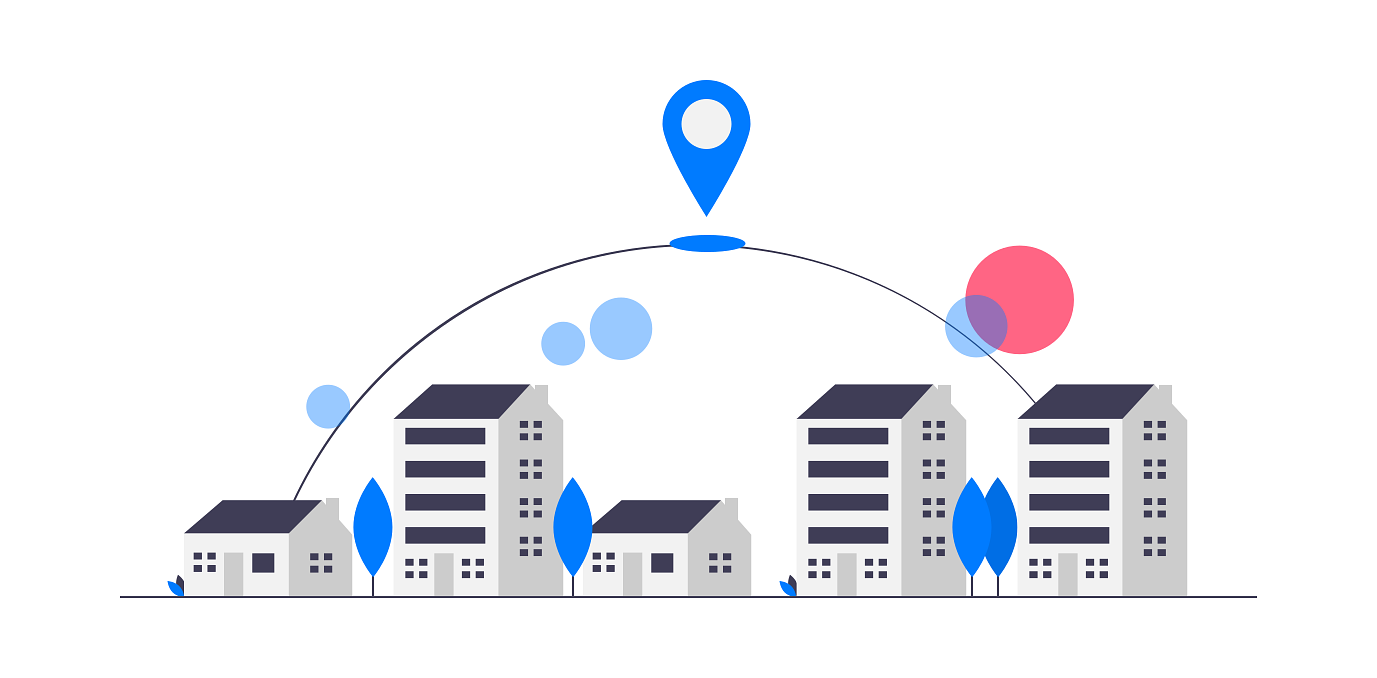
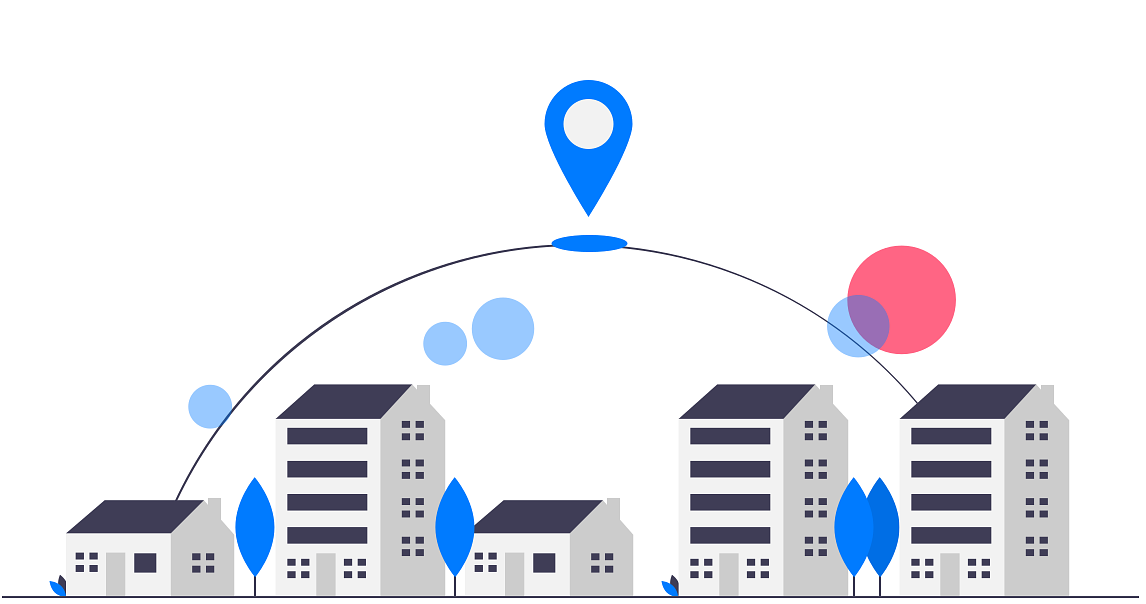
results - working. everything is prettier.

Changed region(s): [[0.0, 0.1192, 1.0, 1.0], [0.3054, 0.4768, 0.336, 0.5066]]

diff --git a/templates/result.html b/templates/result.html
@@ -1,42 +1,106 @@
 <!DOCTYPE html>
 <html lang="en">
 <head>
-    <title>My Webpage</title>
+    <title>Results | asteRisk*</title>
+    <script src="https://code.jquery.com/jquery-3.3.1.slim.min.js" integrity="sha384-q8i/X+965DzO0rT7abK41JStQIAqVgRVzpbzo5smXKp4YfRvH+8abtTE1Pi6jizo" crossorigin="anonymous"></script>
+    <script src="https://cdnjs.cloudflare.com/ajax/libs/popper.js/1.14.7/umd/popper.min.js" integrity="sha384-UO2eT0CpHqdSJQ6hJty5KVphtPhzWj9WO1clHTMGa3JDZwrnQq4sF86dIHNDz0W1" crossorigin="anonymous"></script>
     <link rel="stylesheet" href="https://stackpath.bootstrapcdn.com/bootstrap/4.3.1/css/bootstrap.min.css" integrity="sha384-ggOyR0iXCbMQv3Xipma34MD+dH/1fQ784/j6cY/iJTQUOhcWr7x9JvoRxT2MZw1T" crossorigin="anonymous">
+    <script src="https://stackpath.bootstrapcdn.com/bootstrap/4.3.1/js/bootstrap.min.js" integrity="sha384-JjSmVgyd0p3pXB1rRibZUAYoIIy6OrQ6VrjIEaFf/nJGzIxFDsf4x0xIM+B07jRM" crossorigin="anonymous"></script>
     <link rel='stylesheet' href='{{ url_for('static', filename='style.css') }}'>
+
+    <script>
+      $(document).ready(function(){
+        $('[data-toggle="popover"]').popover();
+      });
+    </script>
 </head>
 <body>
     <nav class="navbar navbar-expand-md navbar-dark fixed-top bg-dark justify-content-center">
-      <a class="navbar-brand" href="/">Real Estate Risk Assessment</a>
+      <a href="/">asteRisk*</a>
     </nav>
+
     <div id='result'>
       <h1>Result</h1>
-      <ul>
-        <li><strong>Address:</strong> {{address}}</li>
-        <li><strong>Price:</strong> {{price}}</li>
-        <li><strong>Type:</strong> {{type}}</li>
-        <li><strong>Rent or own:</strong> {{rented}}</li>
-        <li><strong>Description:</strong>
+      <a id='remax-link' href='{{posting}}' target="_blank">Visit original posting</a>
+      <div class='row'>
+        <div class='col-sm'>
+          <h5>Property Type</h5>
+          <p>{{type}} {{rented}}</p>
+        </div>
+        <div class='col-sm'>
+          <h5>Address</h5>
+          <p>{{address}}</p>
+        </div>
+        <div class='col-sm'>
+          <h5>Price</h5>
+          <p>{{price}}</p>
+        </div>
+      </div>
+      <hr>
+
+      <div class='row'>
+        <div class='col-sm'>
+          <h5>Description</h5>
           <p>
             {{description}}
           </p>
-        </li>
-      </ul>
-      <hr>
-      <div class='row'>
-        <div class='col-sm-4'>
-          <h5>Risk</h5>
-          <p>
-            <span class='score text-danger'>{{risk}}</span>
-            out of 5
-          </p>
-          <small>5 is highest risk</small>
         </div>
-        <div class='col-sm-8'>
-          <h5>Estimated Insurance Premium</h5>
-          <p>
-            {{premium}}
-          </p>
+      </div>
+
+      <div class='card'>
+        <div class='row'>
+          <div class='prem col-sm'>
+            <h5>Estimated Insurance Premium</h5>
+            <p class='score'>
+              ${{premium}}
+            </p>
+          </div>
+        </div>
+        <div class='row'>
+          <div class='col-sm'>
+            <h5>Risk of Breaking-and-Entering</h5>
+            <p>
+              <span class='score text-{{riskColor}}'>{{risk}}</span>
+              out of 5
+              <a tabindex="0" class="text-secondary" data-trigger="focus" data-toggle="popover" data-content="Higher score means higher risk">?</a>
+            </p>
+            <small>
+              This property is in a {% if risk > 2 %} MEDIUM {% elif risk > 4 %} HIGH {% else %} LOW {% endif %} risk neighbourhood for breaking-and-entering{% if not 2 < risk < 4 %}, which  {%if risk > 4 %} INCREASES {% else %} DECREASES {% endif %} {% endif %}your premium.
+            </small>
+          </div>
+          <div class='col-sm'>
+            <h5>Rent vs Sale</h5>
+            <small>
+              This property is listed as {{ rented.upper() }}. Properties for rent are at higher risk of theft, but enjoy lower insurance premiums due to the landlord’s coverage.
+            </small>
+          </div>
+        </div>
+        <div class='row'>
+          <div class='col-sm'>
+            <h5>Proximity to Fire Stations</h5>
+            <small>
+              This neighbourhood has # fire stations. Close proximity to fire stations lowers your insurance premium.
+            </small>
+          </div>
+          <div class='col-sm'>
+            <h5>House/townhouse vs Condo</h5>
+            <small>
+              This property is listed as a {{type.upper()}}.
+              {% if type.upper() == 'HOUSE' or type.upper() == 'TOWNHOUSE'%}
+                Houses and townhouses are at a higher risk of theft, which INCREASES your premium.
+              {% else %}
+              Condos are at a lower risk of theft, which DECREASES your premium.
+              {% endif %}
+            </small>
+          </div>
+        </div>
+        <div class='row'>
+          <div class='col-sm'>
+            <h5>Price</h5>
+            <small>
+              Insurance premiums are strongly influenced by the price of the property.
+            </small>
+          </div>
         </div>
       </div>
 

diff --git a/templates/index.html b/templates/index.html
@@ -1,16 +1,17 @@
 <!DOCTYPE html>
 <html lang="en">
 <head>
-    <title>My Webpage</title>
+    <title>asteRisk*</title>
+    <script src="https://cdnjs.cloudflare.com/ajax/libs/popper.js/1.14.7/umd/popper.min.js" integrity="sha384-UO2eT0CpHqdSJQ6hJty5KVphtPhzWj9WO1clHTMGa3JDZwrnQq4sF86dIHNDz0W1" crossorigin="anonymous"></script>
     <link rel="stylesheet" href="https://stackpath.bootstrapcdn.com/bootstrap/4.3.1/css/bootstrap.min.css" integrity="sha384-ggOyR0iXCbMQv3Xipma34MD+dH/1fQ784/j6cY/iJTQUOhcWr7x9JvoRxT2MZw1T" crossorigin="anonymous">
     <link rel='stylesheet' href='{{ url_for('static', filename='style.css') }}'>
 </head>
 <body>
     <nav class="navbar navbar-expand-md navbar-dark fixed-top bg-dark justify-content-center">
-      <a class="navbar-brand" href="/">Real Estate Risk Assessment</a>
+      <a href="/">asteRisk*</a>
     </nav>
     <div id='home'>
-      <h1>Be informed on the risks you're taking.</h1>
+      <h1>Know the risks you're taking.</h1>
       <p>Learn about your prospective place of residence. Enter the property listing url below and receive a personalized <strong>risk score</strong> and estimated <strong>insurance premium</strong>.</p>
       <form action='/scrape' method="post">
         <input type='text' name='url' class='form-control' placeholder='www.example.com/property'>

diff --git a/static/style.css b/static/style.css
@@ -1,16 +1,46 @@
 #home, #result{
-  height: 100vh;
   margin: 0 auto;
-  padding: 100px;
-  width: 65%;
+  width: 50%;
+  padding-top: 150px;
+  padding-bottom: 50px;
 }
 
 #home {
   text-align: center;
 }
 
+#result {
+  position: relative;
+}
+
 #result p {
   margin: 0;
+}
+
+#remax-link {
+  position: absolute;
+  top: 150px;
+  right: 0;
+}
+
+.row, .card {
+  margin-top: 20px;
+}
+
+.card .row {
+  margin: 15px 5px;
+}
+
+.card a {
+  margin-left: 5px;
+  font-size: 1rem;
+  height: 20px;
+  width: 20px;
+  display: inline-block;
+  text-align: center;
+  border-radius: 50%;
+  background: #dae0e5;
+  line-height: 20px;
 }
 
 form {
@@ -22,22 +52,35 @@ button {
 }
 
 .score {
-  font-size: 3em;
+  font-size: 2rem;
   font-weight: bold;
   display: inline-block;
 }
 
-.score p{
-  position: relative;
-  top: 4px;
+.prem .score {
+  font-size: 3rem;
+}
+
+.prem {
+  text-align: center;
+}
+
+nav a{
+  font-size: 2rem;
+  color: white;
+  padding: 1rem;
+}
+
+nav a:hover {
+  color: white;
+  text-decoration: none;
 }
 
 img {
   display: block;
   position: absolute;
-  bottom:0;
-  right: 0;
+  bottom: 1rem;
+  right: 4rem;;
   z-index: -1;
-  width: 75%;
-  margin: -30px;
+  width: 60%;
 }

diff --git a/templates/404.html b/templates/404.html
@@ -1,13 +1,13 @@
 <!DOCTYPE html>
 <html lang="en">
 <head>
-    <title>My Webpage</title>
+    <title>404 | asteRisk* </title>
     <link rel="stylesheet" href="https://stackpath.bootstrapcdn.com/bootstrap/4.3.1/css/bootstrap.min.css" integrity="sha384-ggOyR0iXCbMQv3Xipma34MD+dH/1fQ784/j6cY/iJTQUOhcWr7x9JvoRxT2MZw1T" crossorigin="anonymous">
     <link rel='stylesheet' href='{{ url_for('static', filename='style.css') }}'>
 </head>
 <body>
     <nav class="navbar navbar-expand-md navbar-dark fixed-top bg-dark justify-content-center">
-      <a class="navbar-brand" href="/">Real Estate Risk Assessment</a>
+      <a href="/">Real Estate Risk Assessment</a>
     </nav>
     <div id='home'>
       <h1>Oops! Invalid Link</h1>

diff --git a/geo.py b/geo.py
@@ -43,7 +43,13 @@ with open('Neighbourhood_Crime_Rates_Boundary_File_.csv') as csv_file:
     d['Scarborough-Agincourt'] = round(statistics.mean([d['Steeles'], d['L\'Amoreaux'], d['Tam O\'Shanter-Sullivan']]), 2)
     d['Scarborough North'] = round(statistics.mean([d['Malvern'], d['Agincourt South-Malvern West'], d['Rouge'], d['Milliken'], d['Agincourt North']]), 2)
 
-
+def gen_risk_color(risk):
+    if risk < 2:
+        return 'success'
+    elif risk < 4:
+        return 'warning'
+    else:
+        return 'danger'
 
 def process(address, rented, type, price, description):
     geolocator = Nominatim(user_agent="specify_your_app_name_here")
@@ -83,27 +89,29 @@ def process(address, rented, type, price, description):
     apartmentmin['MAX'] = 73
     apartmentmax = 120
     premium = 0
+
+    price_nums = int("".join(filter(str.isdigit, price)))
     if house:
-        if price < 100000:
+        if price_nums < 100000:
             premium = housemin['100K'] + (housemin['300K'] - housemin['100K']) * risk/5
-        elif price < 300000:
+        elif price_nums < 300000:
             premium = housemin['300K'] + (housemin['700K'] - housemin['300K']) * risk/5
-        elif price < 700000:
+        elif price_nums < 700000:
             premium = housemin['700K'] + (housemin['1.5M'] - housemin['700K']) * risk/5
-        elif price < 1500000:
+        elif price_nums < 1500000:
             premium = housemin['1.5M'] + (housemin['MAX'] - housemin['1.5M']) * risk/5
         else:
             premium = housemin['MAX'] + (housemax - housemin['MAX']) * risk/5
         if rented:
             premium = premium * 1/3
     else:
-        if price < 100000:
+        if price_nums < 100000:
             premium = apartmentmin['100K'] + (apartmentmin['300K'] - apartmentmin['100K']) * risk/5
-        elif price < 300000:
+        elif price_nums < 300000:
             premium = apartmentmin['300K'] + (apartmentmin['700K'] - apartmentmin['300K']) * risk/5
-        elif price < 700000:
+        elif price_nums < 700000:
             premium = apartmentmin['700K'] + (apartmentmin['1.5M'] - apartmentmin['700K']) * risk/5
-        elif price < 1500000:
+        elif price_nums < 1500000:
             premium = apartmentmin['1.5M'] + (apartmentmin['MAX'] - apartmentmin['1.5M']) * risk/5
         else:
             premium = apartmentmin['MAX'] + (apartmentmax - apartmentmin['MAX']) * risk/5
@@ -113,9 +121,10 @@ def process(address, rented, type, price, description):
     info = {
         'address': address,
         'price': price,
-        'rented': rented,
-        'type': type,
+        'rented': 'For Rent' if rented else 'For Sale',
+        'type': type.capitalize(),
         'risk': risk,
+        'riskColor': gen_risk_color(risk),
         'premium': premium,
         'description':description
     }

diff --git a/run.py b/run.py
@@ -18,19 +18,11 @@ def do_scrape(url):
     type = soup.find_all("span", class_="classifier")[3].get_text()
     description = soup.select('.property-description p.content')[0].get_text()
 
-    info = {}
-    info['address'] = address1 + ", " + address2
-    info['price'] = price
-    info['rented'] = "Rent" if rented else "Own"
-    info['type'] = type.capitalize()
-    info['description'] = description
-
     address = address1 + ", " + address2
     if " - " in address:
         address = address[address.index(' - ') + 1:]
 
     address = address[:address.index(',') + 1] + ' Toronto, ON'
-    price = int(price.replace('$', '').replace(',', ''))
     house = str(type)
 
     return geo.process(address, rented, house, price, description)
@@ -44,7 +36,7 @@ def result():
     if request.method == 'POST':
         url = request.form['url']
         if 'remax.ca' in url:
-            return render_template('result.html', **do_scrape(url))
+            return render_template('result.html', **do_scrape(url), posting=url)
         else:
             return render_template('404.html'), 404
     else:
